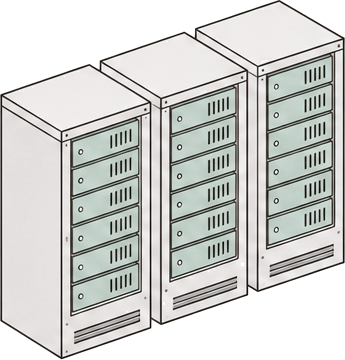
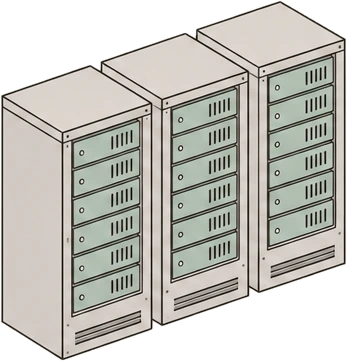
M16 locked (proxy): серверы на карте города, сетка 5 × 3 (PT-07 proxy)

diff --git a/src/view/cityView.ts b/src/view/cityView.ts
@@ -6,14 +6,28 @@ import { CORAL } from './squares';
 type Pt = readonly [number, number];
 
 const INK = 0x262624;
-const GHOST = 0.2; // a company that has not hired the player yet is a pale outline
+const GHOST = 0.2; // what is not bought yet is a pale outline
 const DOT_SPEED = 560; // px per second along a connector
-const DOTS = 70;
+const DOTS = 80;
+const HOME: Pt = [CITY.home.x, CITY.home.y - 60];
+
+export type FarmNode = keyof typeof CITY.farms;
+
+/** What the player owns in the city: contracts with companies and server capacity. */
+export interface CityTopology {
+  /** units owned per source id; a company is hired when its id is above zero */
+  owned: Record<string, number>;
+  racks: number;
+  halls: number;
+  datacentres: number;
+}
 
 interface Route {
   from: Pt;
   to: Pt;
   len: number;
+  /** squares that arrive here have been turned into money */
+  pays: boolean;
 }
 
 interface Dot {
@@ -23,17 +37,19 @@ interface Dot {
 }
 
 /**
- * The city (M16): the player's desk in the middle, company buildings around it. A company that
- * hired the player is drawn in full and sends squares of tasks to the desk. Draws state, decides nothing.
+ * The city (M16): the player's desk in the middle, company buildings around it, the server room and
+ * the datacentre next to it. Companies send squares of tasks to the desk, the desk hands them to the
+ * servers. Draws state, decides nothing.
  */
 export class CityView {
   private readonly scene: Phaser.Scene;
   private readonly root: Phaser.GameObjects.Container;
   private readonly lines: Phaser.GameObjects.Graphics;
-  private readonly buildings = new Map<string, Phaser.GameObjects.Image>();
+  private readonly nodes = new Map<string, Phaser.GameObjects.Image>();
   private readonly routes = new Map<string, Route>();
   private readonly dots: Dot[] = [];
-  /** called when a square of tasks reaches the desk */
+  private serversKey = '';
+  /** called when a square of tasks reaches the servers: the tasks are closed there */
   onDelivered: (x: number, y: number) => void = () => undefined;
 
   constructor(scene: Phaser.Scene) {
@@ -42,21 +58,19 @@ export class CityView {
     this.root = scene.add.container(0, 0, [this.lines]).setAlpha(0).setVisible(false);
 
     // far rows first, so that nearer buildings overlap them
-    const lots = Object.entries(CITY.lots).sort((a, b) => a[1].y - b[1].y);
-    let homeAdded = false;
-    const addHome = (): void => {
-      const h = CITY.home;
-      this.root.add(scene.add.image(h.x, h.y, 'node_desk').setOrigin(0.5, 1).setScale(h.scale * BP.desk.scale));
-      homeAdded = true;
-    };
-    for (const [id, lot] of lots) {
-      if (!homeAdded && lot.y > CITY.home.y) addHome();
-      const img = scene.add.image(lot.x, lot.y, `node_${lot.key}`).setOrigin(0.5, 1).setAlpha(GHOST);
-      img.setScale(Math.min(lot.h / img.height, CITY.maxWidth / img.width));
+    const places: { id: string; key: string; x: number; y: number; h: number }[] = [
+      ...Object.entries(CITY.lots).map(([id, lot]) => ({ id, ...lot })),
+      { id: 'servers', key: 'rack', ...CITY.farms.servers },
+      { id: 'dc', key: 'datacenter', ...CITY.farms.dc },
+      { id: 'home', key: 'desk', x: CITY.home.x, y: CITY.home.y, h: 0 },
+    ].sort((a, b) => a.y - b.y);
+    for (const p of places) {
+      const img = scene.add.image(p.x, p.y, `node_${p.key}`).setOrigin(0.5, 1);
+      if (p.id === 'home') img.setScale(CITY.home.scale * BP.desk.scale);
+      else img.setAlpha(GHOST).setScale(this.fit(img, p.h));
       this.root.add(img);
-      this.buildings.set(id, img);
+      this.nodes.set(p.id, img);
     }
-    if (!homeAdded) addHome();
 
     for (let i = 0; i < DOTS; i++) {
       const rect = scene.add.rectangle(0, 0, 11, 11, CORAL).setVisible(false);
@@ -71,28 +85,37 @@ export class CityView {
     this.scene.tweens.add({ targets: this.root, alpha: 1, delay: delayMs, duration: 500 });
   }
 
-  /** Companies that hired the player light up and get a connector to the desk. */
-  sync(owned: Record<string, number>): void {
+  /** Whatever was bought lights up and gets a connector: companies → the desk → the servers. */
+  sync(t: CityTopology): void {
     let changed = false;
     for (const [id, lot] of Object.entries(CITY.lots)) {
-      if (!owned[id] || this.routes.has(id)) continue;
-      const img = this.buildings.get(id)!;
-      const scale = img.scale;
-      img.setScale(scale * 0.7);
-      this.scene.tweens.add({ targets: img, scale, alpha: 1, duration: 320, ease: 'Back.Out' });
+      if (!t.owned[id] || this.routes.has(id)) continue;
+      this.light(id);
+      this.routes.set(id, this.spoke([lot.x, lot.y - 22], false));
+      changed = true;
+    }
 
-      const from: Pt = [lot.x, lot.y - 22];
-      const cx = CITY.home.x;
-      const cy = CITY.home.y - 60;
-      const len = Math.hypot(cx - from[0], cy - from[1]);
-      const k = (len - CITY.homeRadius) / len;
-      this.routes.set(id, { from, to: [from[0] + (cx - from[0]) * k, from[1] + (cy - from[1]) * k], len: len - CITY.homeRadius });
+    // the server room grows from one rack into a row of them
+    const serversKey = t.halls > 0 ? 'racks' : 'rack';
+    const servers = this.nodes.get('servers')!;
+    if (t.racks + t.halls > 0 && serversKey !== this.serversKey) {
+      this.serversKey = serversKey;
+      servers.setTexture(`node_${serversKey}`).setScale(this.fit(servers, CITY.farms.servers.h));
+      this.light('servers');
+      const f = CITY.farms.servers;
+      this.routes.set('servers', this.spoke([f.x, f.y - f.h - 6], true));
+      changed = true;
+    }
+    if (t.datacentres > 0 && !this.routes.has('dc')) {
+      this.light('dc');
+      const f = CITY.farms.dc;
+      this.routes.set('dc', this.spoke([f.x, f.y + 6], true));
       changed = true;
     }
     if (changed) this.redrawLines();
   }
 
-  /** Sends a square of tasks from a company to the desk. */
+  /** Sends a square along a connector: a company id → the desk, `servers` / `dc` → from the desk to the servers. */
   flow(id: string): void {
     const route = this.routes.get(id);
     const dot = this.dots.find((d) => !d.route);
@@ -106,9 +129,9 @@ export class CityView {
     for (const d of this.dots) {
       if (!d.route) continue;
       d.dist += DOT_SPEED * dt;
-      const { from, to, len } = d.route;
+      const { from, to, len, pays } = d.route;
       if (d.dist >= len) {
-        this.onDelivered(to[0], to[1]);
+        if (pays) this.onDelivered(to[0], to[1]);
         d.route = null;
         d.rect.setVisible(false);
         continue;
@@ -118,6 +141,29 @@ export class CityView {
     }
   }
 
+  private fit(img: Phaser.GameObjects.Image, h: number): number {
+    return Math.min(h / img.height, CITY.maxWidth / img.width);
+  }
+
+  private light(id: string): void {
+    const img = this.nodes.get(id)!;
+    const scale = img.scale;
+    img.setScale(scale * 0.7);
+    this.scene.tweens.add({ targets: img, scale, alpha: 1, duration: 320, ease: 'Back.Out' });
+  }
+
+  /**
+   * A straight connector between a node and the edge of the desk. Companies send tasks in;
+   * `outward` connectors carry them from the desk to the servers, where they become money.
+   */
+  private spoke(node: Pt, outward: boolean): Route {
+    const full = Math.hypot(HOME[0] - node[0], HOME[1] - node[1]);
+    const k = (full - CITY.homeRadius) / full;
+    const edge: Pt = [node[0] + (HOME[0] - node[0]) * k, node[1] + (HOME[1] - node[1]) * k];
+    const len = full - CITY.homeRadius;
+    return outward ? { from: edge, to: node, len, pays: true } : { from: node, to: edge, len, pays: false };
+  }
+
   private redrawLines(): void {
     const g = this.lines;
     g.clear();
@@ -125,7 +171,7 @@ export class CityView {
     g.fillStyle(INK, 1);
     for (const r of this.routes.values()) {
       g.lineBetween(r.from[0], r.from[1], r.to[0], r.to[1]);
-      // an arrowhead at the desk
+      // an arrowhead where the tasks arrive
       const ux = (r.to[0] - r.from[0]) / r.len;
       const uy = (r.to[1] - r.from[1]) / r.len;
       const bx = r.to[0] - ux * 12;

diff --git a/src/gyms/agree/AgreeGym.ts b/src/gyms/agree/AgreeGym.ts
@@ -49,7 +49,7 @@ import {
   type TerminalUi,
 } from '../../ui/terminal/terminal';
 import { BlueprintView, VISIBLE_SUBAGENTS } from '../../view/blueprintView';
-import { CityView } from '../../view/cityView';
+import { CityView, type CityTopology } from '../../view/cityView';
 import { preloadNodes } from '../../view/nodeTextures';
 import { Squares, type Rect } from '../../view/squares';
 
@@ -261,7 +261,7 @@ export class AgreeGym extends Phaser.Scene {
     this.stage = 3;
     this.owed = { in: 0, me: 0, sub: 0 };
     this.view.shrinkTo(CITY.home.x, CITY.home.y, CITY.home.scale, 900);
-    this.city.sync(this.state.owned);
+    this.city.sync(this.cityTopology());
     this.city.show(450);
     logEvent('pull_back_city');
   }
@@ -292,6 +292,17 @@ export class AgreeGym extends Phaser.Scene {
     if (count === 1 && this.clock - this.lastDelivery < 0.07) return; // not more than ~14 squares a second
     this.lastDelivery = this.clock;
     this.squares.fly({ x: x - 6, y: y - 6, w: 12, h: 12 }, MONEY_SPOT, count, MONEY_ON_PAPER, 160, [0.45, 0.75]);
+  }
+
+  /** sessions bought as farms of one kind */
+  private farmSessions(id: string): number {
+    const f = this.cfg.farms.find((x) => x.id === id);
+    return f ? (this.state.farms[id] ?? 0) * f.sessions : 0;
+  }
+
+  private cityTopology(): CityTopology {
+    const f = this.state.farms;
+    return { owned: this.state.owned, racks: f.rack ?? 0, halls: f.hall ?? 0, datacentres: f.dc ?? 0 };
   }
 
   /** a source on sale picked by its share of the incoming flow */
@@ -338,9 +349,19 @@ export class AgreeGym extends Phaser.Scene {
         const src = this.pickSource(this.cfg.sources.filter((x) => x.screen === 3));
         if (src) this.city.flow(src.id);
       }
+      // the desk hands tasks to the servers by their share of the sessions; the laptops inside it keep the rest
+      this.owed.sub = Math.min(this.owed.sub + done.subagents, 3);
+      if (this.rng.next() < dt * 14 && this.owed.sub >= 1) {
+        this.owed.sub--;
+        const dc = this.farmSessions('dc');
+        const servers = this.farmSessions('rack') + this.farmSessions('hall');
+        const pick = this.rng.range(0, sessionsOf(s, this.cfg) + 1);
+        if (pick < dc) this.city.flow('dc');
+        else if (pick < dc + servers) this.city.flow('servers');
+        else this.delivered(...HOME_SPOT);
+      }
       this.city.step(dt);
-      // the sessions inside the desk keep closing tasks: money leaves it even before the first contract
-      if (done.here + done.subagents > 0) this.delivered(...HOME_SPOT);
+      if (done.here > 0) this.delivered(...HOME_SPOT);
     } else if (done.here > 0) {
       this.term.hit('auto');
       this.squares.fly(TERMINAL_SPOTS.ask, TERMINAL_SPOTS.money, Math.min(done.here, 3) * 2, MONEY_ON_DARK, 220, [0.35, 0.6]);
@@ -541,7 +562,7 @@ export class AgreeGym extends Phaser.Scene {
     const cfg = this.cfg;
     const neck = this.neck();
     const capacity = claudeRate(s, cfg) + subagentRate(s, cfg);
-    this.city.sync(s.owned);
+    this.city.sync(this.cityTopology());
 
     const sessions = sessionsOf(s, cfg) + 1; // and the player's own
     // the numbers of the desk live in the line under the money: connectors arrive at it from every side
@@ -553,6 +574,20 @@ export class AgreeGym extends Phaser.Scene {
       if (!s.owned[src.id]) continue;
       hired++;
       if (lot) tags.push({ x: lot.x, y: lot.y + 4, mid: true, small: true, html: `${src.tag}<br><b>+${short(src.inflow)}/с</b>` });
+    }
+
+    const racks = s.farms.rack ?? 0;
+    const halls = s.farms.hall ?? 0;
+    const dcs = s.farms.dc ?? 0;
+    if (racks + halls > 0) {
+      const n = this.farmSessions('rack') + this.farmSessions('hall');
+      const what = [racks ? `стойки ×${racks}` : '', halls ? `залы ×${halls}` : ''].filter(Boolean).join(' · ');
+      tags.push({ x: CITY.farms.servers.x, y: CITY.farms.servers.y + 4, mid: true, small: true, html: `${what}<br><b>${short(n)} ${plural(n, SESSION_FORMS)}</b>` });
+    }
+    if (dcs > 0) {
+      const n = this.farmSessions('dc');
+      const d = CITY.farms.dc; // its caption sits above: the connector from the desk arrives from below
+      tags.push({ x: d.x, y: d.y - d.h - 44, mid: true, small: true, html: `датацентры ×${dcs}<br><b>${short(n)} ${plural(n, SESSION_FORMS)}</b>` });
     }
 
     const all = hired === companies.length;

diff --git a/src/data/layout/city.ts b/src/data/layout/city.ts
@@ -1,28 +1,33 @@
 /**
- * The city (the third screen), in scene coordinates (1920×1080): the player's desk in the middle,
- * company buildings around it in three staggered rows. Nodes are anchored at their bottom centre.
+ * The city (the third screen), in scene coordinates (1920×1080): a grid of five columns and three rows
+ * with the player's desk in the middle. Nodes are anchored at their bottom centre.
  * `h` — the height a building is drawn at, px.
  */
 export const CITY = {
   /** the desk of the blueprint shrinks into this node: same picture, `scale` of its size */
   home: { x: 670, y: 700, scale: 0.4 },
-  /** squares from the companies stop this far from the middle of the desk */
+  /** connectors stop this far from the middle of the desk */
   homeRadius: 105,
   /** company id → its lot; the first contracts are the closest buildings */
   lots: {
-    vector: { key: 'office', x: 390, y: 700, h: 170 },
-    cats: { key: 'garage', x: 950, y: 700, h: 150 },
-    creative: { key: 'studio', x: 530, y: 480, h: 150 },
-    market: { key: 'mall', x: 810, y: 930, h: 150 },
-    logistics: { key: 'warehouse', x: 810, y: 480, h: 140 },
-    factory: { key: 'factory', x: 530, y: 930, h: 165 },
-    bank: { key: 'bank', x: 250, y: 480, h: 160 },
-    telecom: { key: 'tower', x: 1090, y: 930, h: 200 },
-    gov: { key: 'admin', x: 1090, y: 480, h: 165 },
-    cloud: { key: 'datacenter', x: 250, y: 930, h: 130 },
-    consult: { key: 'office', x: 110, y: 700, h: 170 },
-    everyone: { key: 'tower', x: 1230, y: 700, h: 200 },
+    vector: { key: 'office', x: 410, y: 700, h: 170 },
+    cats: { key: 'garage', x: 930, y: 700, h: 150 },
+    creative: { key: 'studio', x: 410, y: 480, h: 150 },
+    market: { key: 'mall', x: 930, y: 930, h: 150 },
+    logistics: { key: 'warehouse', x: 930, y: 480, h: 140 },
+    factory: { key: 'factory', x: 410, y: 930, h: 165 },
+    bank: { key: 'bank', x: 150, y: 480, h: 160 },
+    telecom: { key: 'tower', x: 1190, y: 930, h: 175 },
+    gov: { key: 'admin', x: 1190, y: 480, h: 165 },
+    cloud: { key: 'garage', x: 150, y: 930, h: 150 },
+    consult: { key: 'office', x: 150, y: 700, h: 170 },
+    everyone: { key: 'tower', x: 1190, y: 700, h: 175 },
   } as Record<string, { key: string; x: number; y: number; h: number }>,
+  /** where the bought sessions live: the server room below the desk, the datacentre above it */
+  farms: {
+    servers: { x: 670, y: 930, h: 150 },
+    dc: { x: 670, y: 480, h: 125 },
+  },
   /** a building is never drawn wider than this */
-  maxWidth: 200,
+  maxWidth: 185,
 } as const;

diff --git a/src/view/nodeTextures.ts b/src/view/nodeTextures.ts
@@ -2,7 +2,7 @@ import type Phaser from 'phaser';
 
 const NODES = [
   'desk', 'laptop', 'office', 'tray', 'board', 'handshake', 'studio', 'box', // the blueprint
-  'tower', 'datacenter', 'bank', 'garage', 'mall', 'factory', 'admin', 'warehouse', // the city
+  'tower', 'datacenter', 'bank', 'garage', 'mall', 'factory', 'admin', 'warehouse', 'rack', 'racks', // the city
 ];
 
 /** Loads every node icon once: both the blueprint and the city draw from the same set. */

diff --git a/.studioigor/DESIGN.md b/.studioigor/DESIGN.md
@@ -22,7 +22,7 @@ for the vertical slice; full — later. Before a mechanic — research research/
 | M13 | Клод жмёт «Да» сам: линия автосогласия → на вехе игра спрашивает «продолжать без тебя?» | full | Узкое горлышко — это ты | idea | — | G03; расширяет M05 и M10 |
 | M14 | Камера отъезжает: терминал → стол → сеть работ → город → планета → орбита | full | Рост виден глазами | idea | — | G04; первый отъезд (терминал → чертёж) нужен уже в срезе — вместе с M04 |
 | M15 | Повышения: грейд (джун → мидл → сеньор → тимлид → архитектор) множит плату за каждую задачу; покупается на чертеже | mvp | Абсурд растёт вместе с числами | locked | ?gym=agree (второй экран) | PT-04: «Повышение - прикольно))», PT-05; вместе с новыми видами работ наполняет второй экран |
-| M16 | Город работ: третий экран — карта города; «Открыть ООО» сжимает чертёж в стол посреди города; 12 зданий-компаний нанимают игрока по разу, сессии покупаются пачками (стойка, зал, датацентр); цель — весь город | mvp | Рост виден глазами | gym | ?gym=agree (третий экран) | PT-05: «Город работ»; второй шаг отъезда камеры (M14) |
+| M16 | Город работ: третий экран — карта города; «Открыть ООО» сжимает чертёж в стол посреди города; 12 зданий-компаний нанимают игрока по разу, сессии покупаются пачками (стойка, зал, датацентр); цель — весь город | mvp | Рост виден глазами | locked | ?gym=agree (третий экран) | PT-05: «Город работ»; PT-06: «Да, хочу ещё»; серверы на карте — PT-07 (proxy) |
 
 ## Game designer ideas
 <!-- references/gamedesigner.md. Statuses: proposed → approved → M## | rejected (why) | deferred.
@@ -132,7 +132,7 @@ acceptance criteria · "feel" (targets) · research: research/mech-M01.md -->
 ### M16 — Город работ
 - hypothesis: если после ООО весь чертёж сжимается в один стол посреди города, а компании нанимают игрока по одной, у игрока появляется конечная видимая цель — закрасить весь город; видно по тому, что он называет, сколько компаний осталось, и копит на следующую
 - pillar: Рост виден глазами · controls: покупки — кликом по магазину справа; любая клавиша — подогнать Клода
-- rules: «Открыть ООО» продаётся на чертеже, один раз; на карте 12 зданий, ненанятые — бледные; контракт с компанией разовый, идут по порядку (в магазине видны две следующие); сессии покупаются пачками (стойка, зал, датацентр) и на карте не рисуются — их число в строке под деньгами; работы и сабагенты чертежа продолжают работать, но в городе не продаются; лоток задач растёт вместе с потоком
+- rules: «Открыть ООО» продаётся на чертеже, один раз; на карте 12 зданий, ненанятые — бледные; контракт с компанией разовый, идут по порядку (в магазине видны две следующие); сессии покупаются пачками (стойка, зал, датацентр): серверная стоит под столом, датацентр — над ним, стол раздаёт им задачи; число сессий — в строке под деньгами; работы и сабагенты чертежа продолжают работать, но в городе не продаются; лоток задач растёт вместе с потоком
 - parameters: src/data/balance/sources.json (screen 3), farms.json, grades.json, auto.json (llc), src/data/layout/city.ts (места зданий)
 - feel: отъезд ≤ 1 с: стол чертежа попадает точно в стол города; нанятое здание закрашивается за 0,3 с с подпрыгиванием; квадраты бегут от зданий к столу, не чаще ~16 в секунду
 - acceptance: после ООО игрок без подсказки понимает, что здания — работодатели и что цель — все 12; каждая покупка меняет карту или строку под деньгами в течение 1 с; «город твой» показан после двенадцатого контракта
@@ -157,3 +157,4 @@ acceptance criteria · "feel" (targets) · research: research/mech-M01.md -->
 | 2026-11-14 | M15 Повышения — новая механика (mvp); M02: два новых вида работ на чертеже — «по знакомству» и студия; автосогласие после «не спрашивай» беззвучно | PT-04: «нужен еще какой-то способ получать работу», «Повышение - прикольно)) но новые виды работ - тоже должны появляться», «звук начинает раздражать» |
 | 2026-11-14 | M15 → locked; третий экран — «Город работ» | PT-05: «Да, так лучше», ответы «Фиксируем» и «Город работ» |
 | 2026-11-14 | M16 Город работ — новая механика (mvp), спецификация и гим; сабагенты и фермы считаются сессиями; лоток задач растёт с потоком | PT-05: ответ «Город работ» на вопрос «Третий экран» |
+| 2026-11-14 | M16: серверы нарисованы на карте (серверная и датацентр рядом со столом), сетка города 5 × 3; M16 → locked (proxy) | PT-06: ответ «Нарисовать серверы», «Да, хочу ещё»; PT-07 (proxy) |

diff --git a/.studioigor/PLAYTESTS.md b/.studioigor/PLAYTESTS.md
@@ -63,3 +63,12 @@ One session — one section. The user's feedback — verbatim. The first questio
 - следом (verbatim): «Мне кажется мы задали хороший вектор, дальше действуй сам. Autopilot Сделующие экраны придумывай сам В качестве варианов - стать единственным или самым крупным пользователем антропик, покупать видеокарты у нвидиа для датацентров Работа - работать на правительство - планировать международные операции итд»
 - self-check: OBSERVED — captures/mech-M16/01 (отъезд в город, 12 контрактов, 0 ошибок), tests/economy.test.ts (30 минут, пауз дольше 67 с нет)
 - conclusions → actions: design: серверы (стойки, залы, датацентры) рисуются на карте города рядом со столом; затем M16 → locked (proxy); next: автопилот — ещё 1–2 экрана, потом реплики, новости, звуки, полировка
+
+## PT-07 (proxy) — 2026-11-14 — M16 Город работ: серверы на карте (gym)
+- build: после 2af9848 · run: `npm run dev` → http://localhost:5173/?gym=agree
+- что проверено: сценарий tools/inputs/M01.json (отъезд в город, 12 контрактов, 2 стойки, зал, 3 датацентра), кадры captures/mech-M16/02
+- числа: 0 ошибок и предупреждений в консоли; код игры ~0,2 мс на кадр (53 fps в съёмке без видеокарты — предел самой съёмки); симуляция 30 минут: город занимает 12-ю–25-ю минуты, пауз между покупками дольше 67 с нет
+- сок: покупка отвечает звуком, подпрыгиванием здания и новой связью в том же кадре; квадраты бегут компании → стол → серверы → счётчик денег
+- чек-лист веселья: выбор — есть (компания, мощности или повышение; подсветка узкого места); темп — есть (контракт каждые 35–95 с, пик «город твой»); сюрприз — слабый после первых минут (здания только закрашиваются); риск и мастерство — нет по жанру
+- вердикт: весело достаточно для фиксации (пользователь на PT-06: «Да, хочу ещё»); слабое место — сюрприз, закрывается репликами и новостями (M06) и событиями (M08)
+- что изменилось: сетка города 5 × 3; под столом — серверная (стойки, залы), над столом — датацентр; стол раздаёт задачи серверам по доле сессий; значки серверов и зданий вырезаны заливкой от края

diff --git a/.studioigor/DECISIONS.md b/.studioigor/DECISIONS.md
@@ -48,3 +48,4 @@ decision is not deleted: a new line says "replaces #N".
 | 40 | 2026-11-14 | 6 | самостоятельная разработка (автопилот): цель — полная игра (фазы до 9-й), время — 10 часов (до 2026-11-14 12:18), платформа — браузер; коммитить все изменения, правки пользователь запросит сам | — | user | PT-06: «как в варианте "Да запускай" только комить все изменения, если понадобятся исправления - я их запрошу»; «Полная игра»; «Одна ночь, ~10 ч» |
 | 41 | 2026-11-14 | 6 | следующие экраны автопилот придумывает сам; идеи пользователя: стать единственным или самым крупным пользователем Anthropic, покупать видеокарты у Nvidia для датацентров, работа на правительство — планирование международных операций | — | user | сообщение пользователя при запуске автопилота (дословно в CONCEPT.md и PLAYTESTS.md PT-06) |
 | 42 | 2026-11-14 | 6 | автопилот идёт внутри открытой сессии (CronCreate будит сессию), а не через autopilot.py | — | agent | autopilot.py на Windows отказывается стартовать: «the autopilot runs on macOS and Linux; on Windows — via WSL»; в WSL нужен вход в Claude — это человек |
+| 43 | 2026-11-14 | 6 | M16 Город работ зафиксирована после правки «серверы на карте»: серверная под столом, датацентр над столом | серверы отдельными зданиями по краям карты / значки у стола | proxy | пользователь на PT-06 сказал «Да, хочу ещё» и попросил нарисовать серверы; прокси-плейтест PT-07 — без ошибок, темп по симуляции ровный |

diff --git a/.studioigor/autopilot/REVIEW.md b/.studioigor/autopilot/REVIEW.md
@@ -6,3 +6,4 @@
 
 | phase | decided | alternative | why | commit |
 |---|---|---|---|---|
+| 6 | M16 Город работ зафиксирована; серверная под столом, датацентр над столом, сетка 5 × 3; «Тучка» получила здание-гараж вместо датацентра | серверы по краям карты; отдельное здание для «Тучки» | рядом со столом читается цепочка компании → ты → серверы → деньги | см. git log: «M16 locked (proxy)» |
